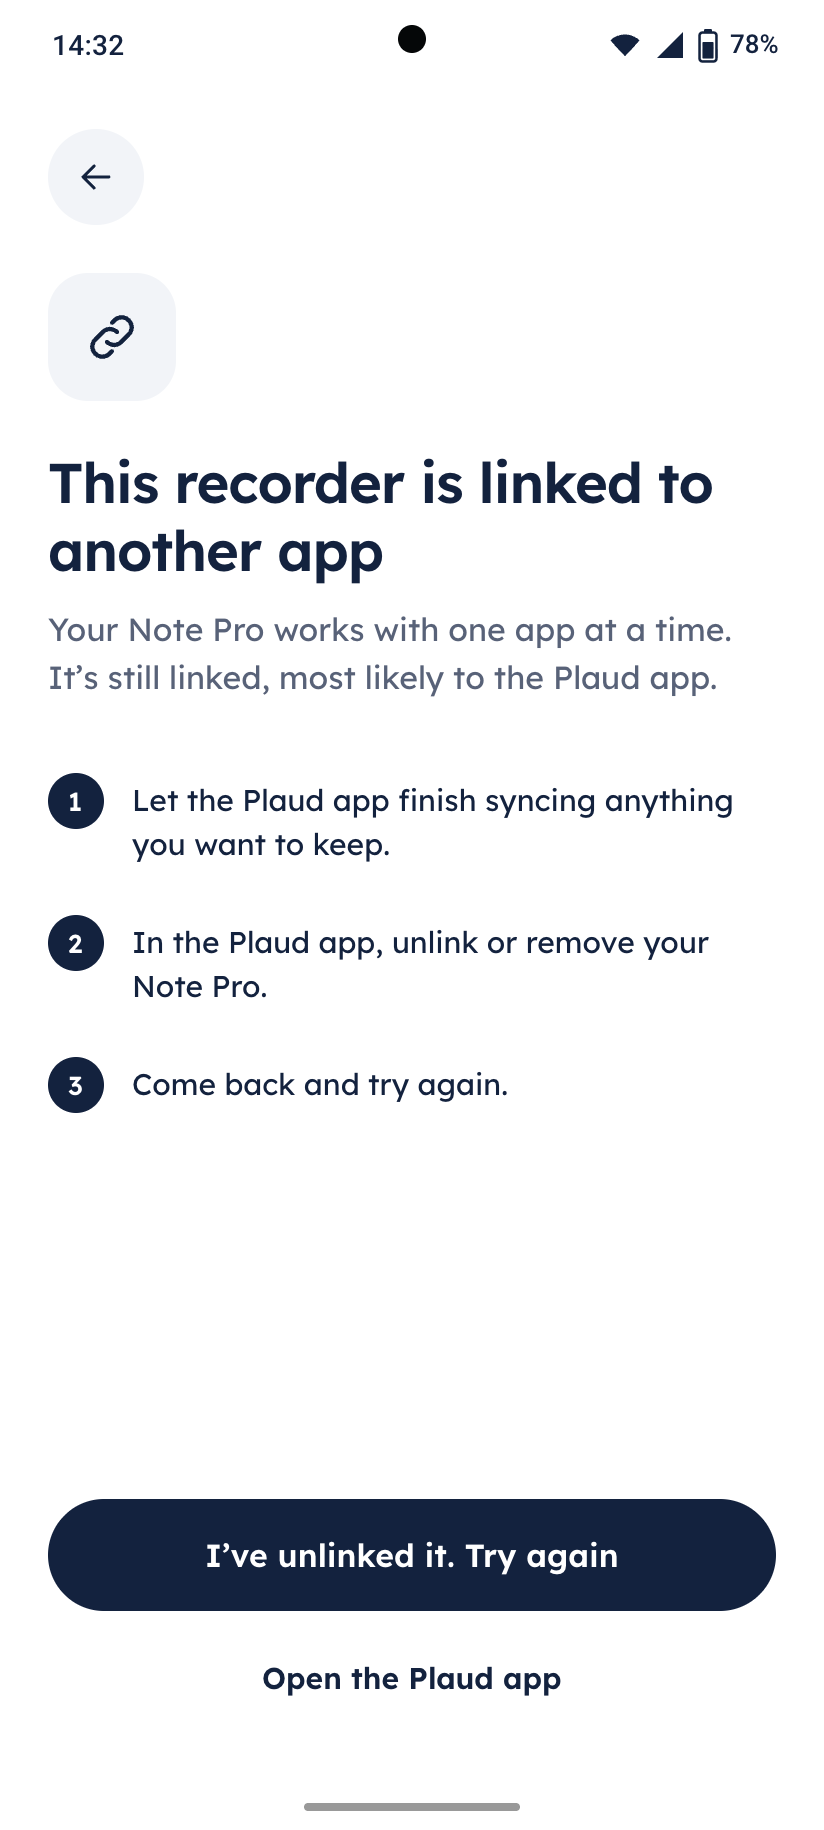
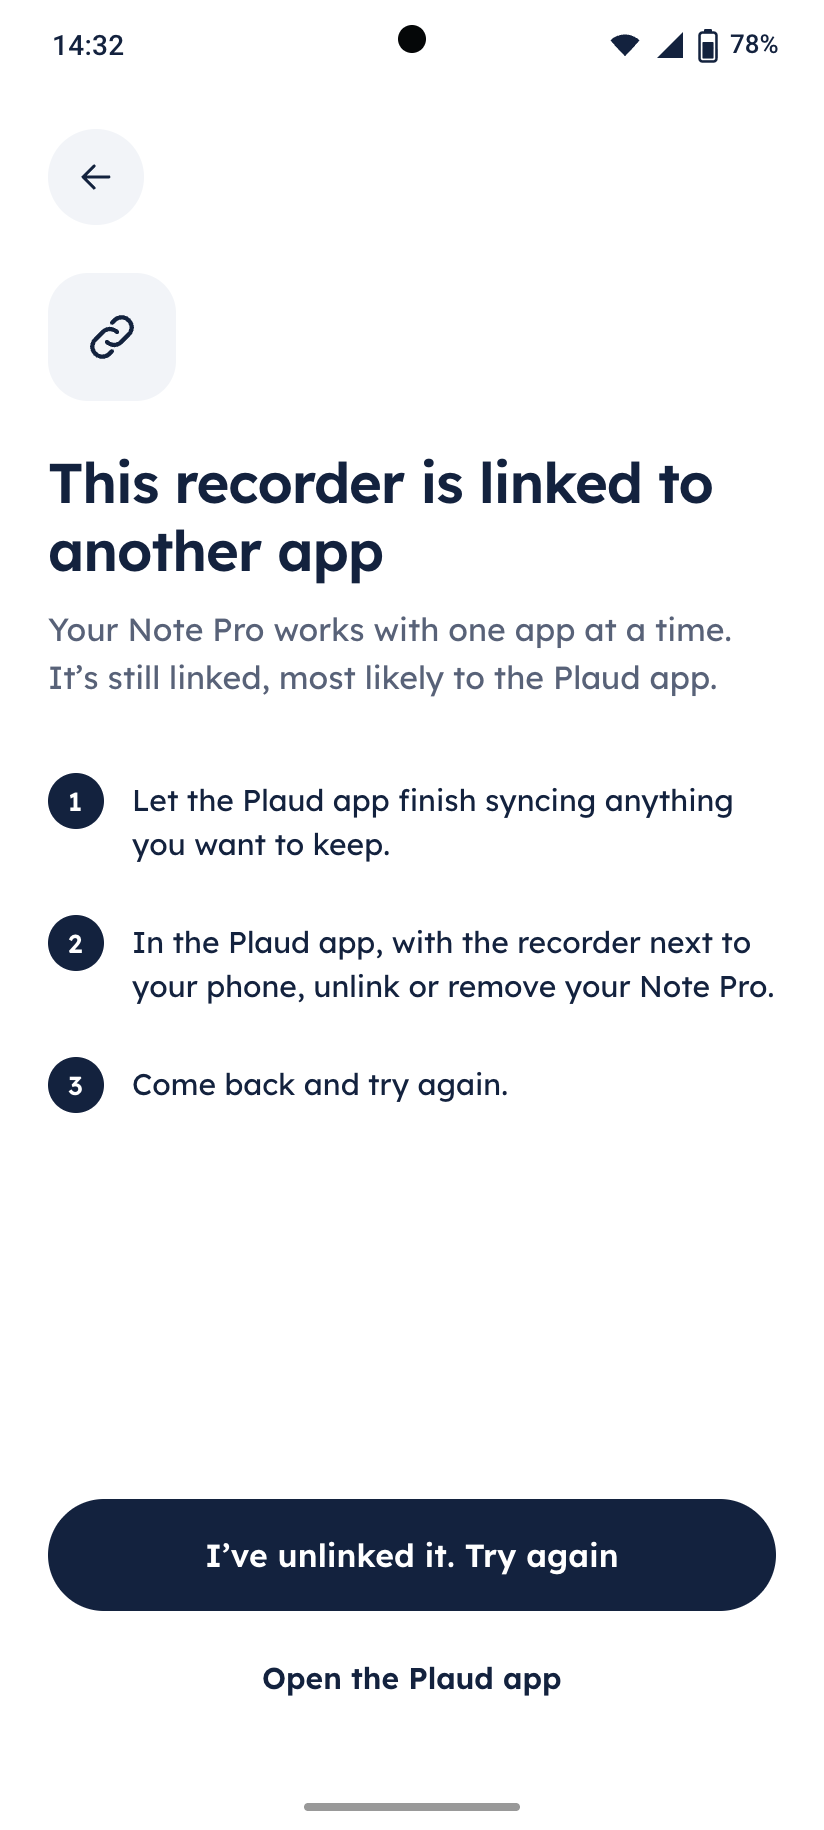
Paper: 01c Today before writing up; 12d unlink step matches the app

Changed region(s): [[0.3944, 0.4984, 0.9405, 0.5607], [0.1517, 0.5295, 0.3641, 0.5607]]

diff --git a/docs/design/screen-inventory.md b/docs/design/screen-inventory.md
@@ -66,9 +66,11 @@ screen in dark during the build.
 
 - **01 Today · dial "Not written up yet":** until processing exists (milestone 3) recorded time
   can't be split into conversation and quiet, so the phone draws it in ink at 55 % with the legend
-  "Not written up yet", next to "Still on Plaud". Built in the app; still to add to Paper.
+  "Not written up yet", next to "Still on Plaud". In Paper as **01c Today · before writing up**
+  (digest card hidden until milestone 3).
 - **01 Today · timeline words before processing:** "Recording · 7 s" as the title, and
   "Waiting to upload / Uploading 40% / Waiting to write up · not backed up". Still on the recorder:
   "Waiting on your Plaud" with "Not transferred / Transferring 48% / Recording now · backup later".
 - **01b · empty past day:** "Nothing was recorded on this day."
+- **12d step 2** now says to unlink "with the recorder next to your phone" (Paper and export updated).
 

diff --git a/docs/build/progress.md b/docs/build/progress.md
@@ -100,7 +100,6 @@ Still to do before milestone 1 is done (owner chose to do these later, 11 Oct 20
 - Not yet seen on the phone: 12a, 12c, 12d, 12e. A true fresh install (re-link with force-clear
   as our own user) is untested on purpose; if it fails, relinking needs the Plaud app.
 - Owner: turn on Autostart and battery "No restrictions" for Roudio (11d shows both off).
-- 12d step 2 now says to unlink with the recorder next to the phone; update Paper to match.
 - 11i's "On the recorder" row waits for the file list (milestone 2).
 
 Learned:
